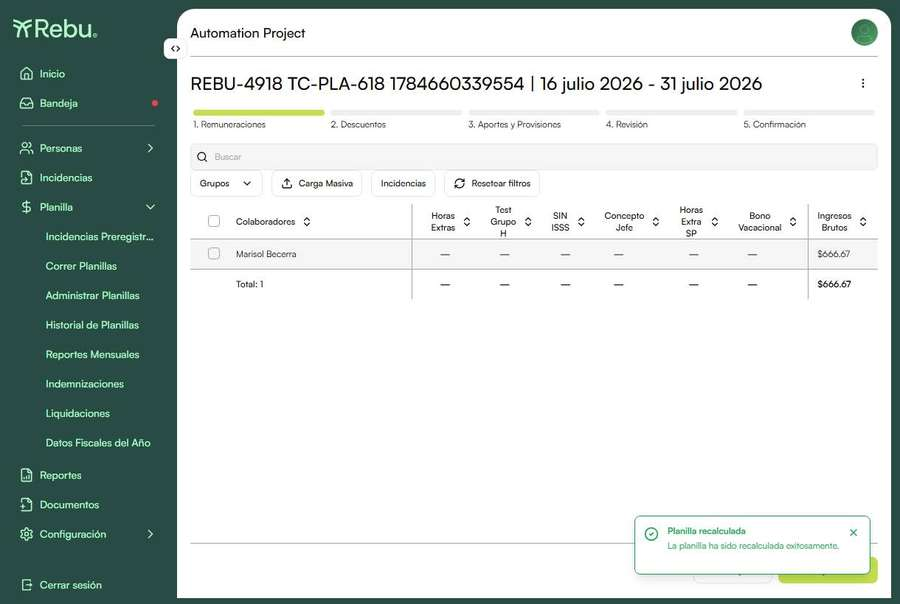
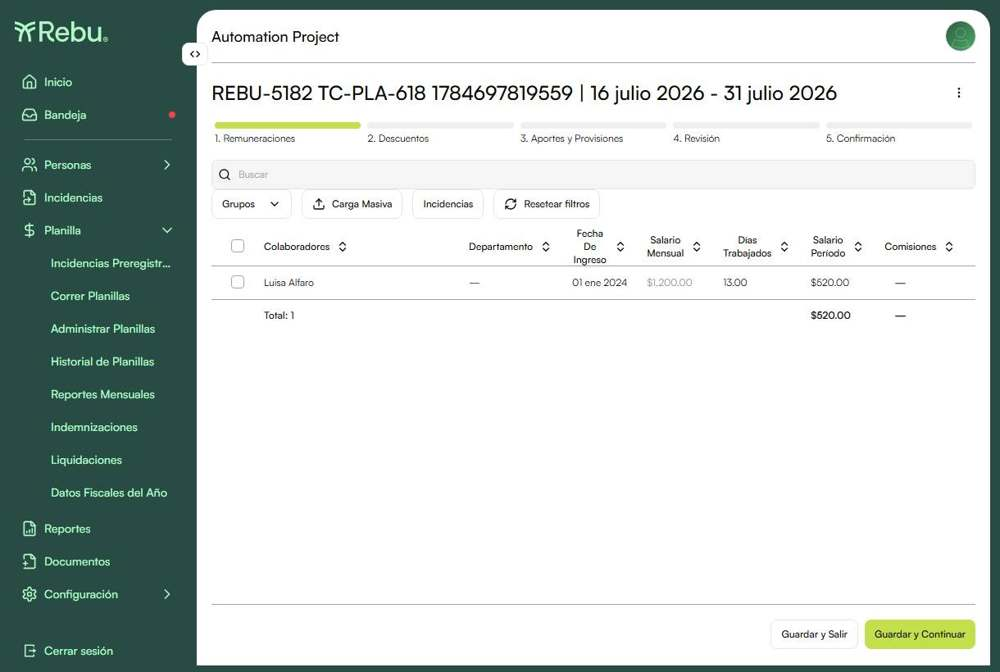
report(v15.3.0): TC-PLA-618 (ausencia cruza 2 periodos, split 2+1) en REBU-5182 con evidencia. 74->75

diff --git a/index.html b/index.html
@@ -61,7 +61,7 @@
 
 <div class="main-wrapper" id="main-wrapper">
 
-<!-- RELEASE-START: v15.3.0 | 2026-07-17 | Pass: 74 | Fail: 0 | Branch: REBU-4976+REBU-5011+REBU-4938+REBU-4980+REBU-4927+REBU-4918+REBU-4909+REBU-5153 -->
+<!-- RELEASE-START: v15.3.0 | 2026-07-17 | Pass: 75 | Fail: 0 | Branch: REBU-4976+REBU-5011+REBU-4938+REBU-4980+REBU-4927+REBU-4918+REBU-4909+REBU-5153 -->
 
 <header class="hero" id="release-v15-3-0">
   <div class="hero-eyebrow">Reporte de Automatización E2E</div>
@@ -79,20 +79,20 @@
 
 <div class="bandeja">
   <div class="summary">
-    <div class="card pass"><div class="card-value">74</div><div class="card-label">Pasaron</div></div>
+    <div class="card pass"><div class="card-value">75</div><div class="card-label">Pasaron</div></div>
     <div class="card fail"><div class="card-value">0</div><div class="card-label">Fallaron</div></div>
-    <div class="card total"><div class="card-value">74</div><div class="card-label">Total</div></div>
+    <div class="card total"><div class="card-value">75</div><div class="card-label">Total</div></div>
     <div class="card time"><div class="card-value">~9 m</div><div class="card-label">Duración</div></div>
   </div>
 
 <div class="env-tab-group page-level">
   <div class="env-tab-nav">
-    <button class="env-tab-btn active" onclick="switchEnvTab('uat', this)">🧪 UAT <span class="env-tab-count">74/74 ✓</span></button>
+    <button class="env-tab-btn active" onclick="switchEnvTab('uat', this)">🧪 UAT <span class="env-tab-count">75/75 ✓</span></button>
     <button class="env-tab-btn" onclick="switchEnvTab('prod', this)">🏭 Producción <span class="env-tab-count">—</span></button>
   </div>
   <div id="env-uat" class="env-tab-panel active">
     <div class="tab-nav">
-      <button class="tab-btn active" onclick="switchTab('auto-uat', this)">🤖 Automatizados <span class="tab-count">74</span></button>
+      <button class="tab-btn active" onclick="switchTab('auto-uat', this)">🤖 Automatizados <span class="tab-count">75</span></button>
       <button class="tab-btn" onclick="switchTab('manual-uat', this)">📋 Manuales <span class="tab-count">10</span></button>
     </div>
     <hr class="tab-divider">
@@ -210,7 +210,7 @@
       <a class="hu-id" href="https://rebu.atlassian.net/browse/REBU-5182" target="_blank" onclick="event.stopPropagation()">REBU-5182</a>
       <span class="hu-title">Ausencias por horas: descontar días completos por segmento de salario (consumo izquierda→derecha, asignado al tramo por fecha)</span>
     </div>
-    <div class="hu-header-right"><span class="hu-badge">7 / 7 ✓</span><span class="hu-toggle">▼</span></div>
+    <div class="hu-header-right"><span class="hu-badge">8 / 8 ✓</span><span class="hu-toggle">▼</span></div>
   </div>
   <table class="test-table">
     <thead><tr><th>ID</th><th>Caso de prueba</th><th>Status</th></tr></thead>
@@ -229,6 +229,9 @@
 <tr class="detail-row"><td colspan="3"><table class="case-steps"><tr><th>Precondiciones</th><td>Mismo escenario que TC-PLA-612 (cambio 08-ago, ausencia 05–08 ago por horas).</td></tr><tr><th>Resultado obtenido</th><td class="result-text">Los 2 días caen <strong>completos en el Tramo 1</strong> (5 días trabajados), NO 1.5/0.5 ni un reparto proporcional. Confirma el consumo de izquierda a derecha. ✅</td></tr><tr><th>Evidencia</th><td><div style="display:flex;gap:12px;flex-wrap:wrap;padding:4px 0"><div style="flex:1;min-width:280px"><div style="font-size:10px;font-weight:700;color:#284b44;letter-spacing:.5px;text-transform:uppercase;margin-bottom:6px">Tooltip: Tramo 1 qty 5 (no proporcional) · Tramo 2 qty 8</div><img src="assets/v15.3.0/TC-PLA-617/01.jpg" style="max-width:100%;border-radius:6px;border:1px solid #d4e8d0;box-shadow:0 1px 4px rgba(0,0,0,.08)" /></div></div></td></tr><tr><th>Status</th><td><span class="badge-pass">PASS</span></td></tr></table></td></tr>
 <tr class="test-row" onclick="toggleDetail(this)"><td class="test-id">TC-PLA-624</td><td><div class="test-name">3 tramos ($1,000→$1,200→$1,600) + medio día 05-06 ago (1 d) → 1 día descontado del tramo $1,200; pago 14 días (4+4+6)</div><div class="test-tags"><span class="tag tag-val">api-ui</span><span class="tag tag-val">planilla</span><span class="tag tag-val">ausencias</span><span class="tag tag-val">salario-dias</span><span class="tag tag-val">regulatory</span></div></td><td class="status-cell"><span class="badge-pass">PASS</span></td></tr>
 <tr class="detail-row"><td colspan="3"><table class="case-steps"><tr><th>Precondiciones</th><td>Empleado $1,000 con dos cambios dentro del período: $1,200 (05-ago) y $1,600 (10-ago); planilla 01–15 ago; ausencia falta injustificada 05-06 ago 4h/día (8h = 1 día).</td></tr><tr><th>Resultado obtenido</th><td class="result-text">Días trabajados <strong>14</strong> (15 − 1). El día de ausencia se consume izq-der desde el 05-ago → cae en el tramo <strong>$1,200</strong> (queda 4 trabajados de 5). Prorrateo: $1,000×4 = $133.33 · $1,200×4 = $160.00 · $1,600×6 = $320.00 · <strong>Total $613.33</strong>. La suma de días de pago (4+4+6) = 14. ✅</td></tr><tr><th>Evidencia</th><td><div style="display:flex;gap:12px;flex-wrap:wrap;padding:4px 0"><div style="flex:1;min-width:280px"><div style="font-size:10px;font-weight:700;color:#284b44;letter-spacing:.5px;text-transform:uppercase;margin-bottom:6px">Tooltip de prorrateo (3 tramos): 4d×$1,000/30=$133.33 · 4d×$1,200/30=$160 · 6d×$1,600/30=$320 · Total $613.33</div><img src="assets/v15.3.0/TC-PLA-624/01.jpg" style="max-width:100%;border-radius:6px;border:1px solid #d4e8d0;box-shadow:0 1px 4px rgba(0,0,0,.08)" /></div></div></td></tr><tr><th>Status</th><td><span class="badge-pass">PASS</span></td></tr></table></td></tr>
+<tr class="test-row" onclick="toggleDetail(this)"><td class="test-id">TC-PLA-618</td><td><div class="test-name">Escenario 1: ausencia por horas cruza 2 períodos → 2 días en Q2-jul + 1 día en Q1-ago (remanente)</div><div class="test-tags"><span class="tag tag-val">api-ui</span><span class="tag tag-val">planilla</span><span class="tag tag-val">ausencias</span><span class="tag tag-val">salario-dias</span><span class="tag tag-val">regulatory</span></div></td><td class="status-cell"><span class="badge-pass">PASS</span></td></tr>
+<tr class="detail-row"><td colspan="3"><table class="case-steps"><tr><th>Precondiciones</th><td>Empleado $1,200 (≤31 jul) → $1,500 (≥01 ago); ausencia falta injustificada 30 jul–04 ago 4h/día (6×4h = 24h = 3 días); planillas Q2-jul (16–31) y Q1-ago (01–15).</td></tr><tr><th>Resultado obtenido</th><td class="result-text">La ausencia (3 días) se reparte entre dos quincenas: <strong>Q2-jul descuenta 2 días</strong> (30 y 31 jul, desde el inicio) → días trabajados <strong>13</strong> ($1,200×13 = $520); al crear la planilla de <strong>Q1-ago el remanente (1 día) se aplica automáticamente</strong> → días trabajados <strong>14</strong> ($1,500×14 = $700). Total repartido: 2 + 1 = 3 días. ✅</td></tr><tr><th>Evidencia</th><td><div style="display:flex;gap:12px;flex-wrap:wrap;padding:4px 0"><div style="flex:1;min-width:260px"><div style="font-size:10px;font-weight:700;color:#284b44;letter-spacing:.5px;text-transform:uppercase;margin-bottom:6px">Q2-jul (16–31): 2 días descontados · días trabajados 13</div><img src="assets/v15.3.0/TC-PLA-618/01.jpg" style="max-width:100%;border-radius:6px;border:1px solid #d4e8d0;box-shadow:0 1px 4px rgba(0,0,0,.08)" /></div><div style="flex:1;min-width:260px"><div style="font-size:10px;font-weight:700;color:#284b44;letter-spacing:.5px;text-transform:uppercase;margin-bottom:6px">Q1-ago (01–15): 1 día remanente · días trabajados 14</div><img src="assets/v15.3.0/TC-PLA-618/02.jpg" style="max-width:100%;border-radius:6px;border:1px solid #d4e8d0;box-shadow:0 1px 4px rgba(0,0,0,.08)" /></div></div></td></tr><tr><th>Status</th><td><span class="badge-pass">PASS</span></td></tr></table></td></tr>
+
 
     </tbody>
   </table>